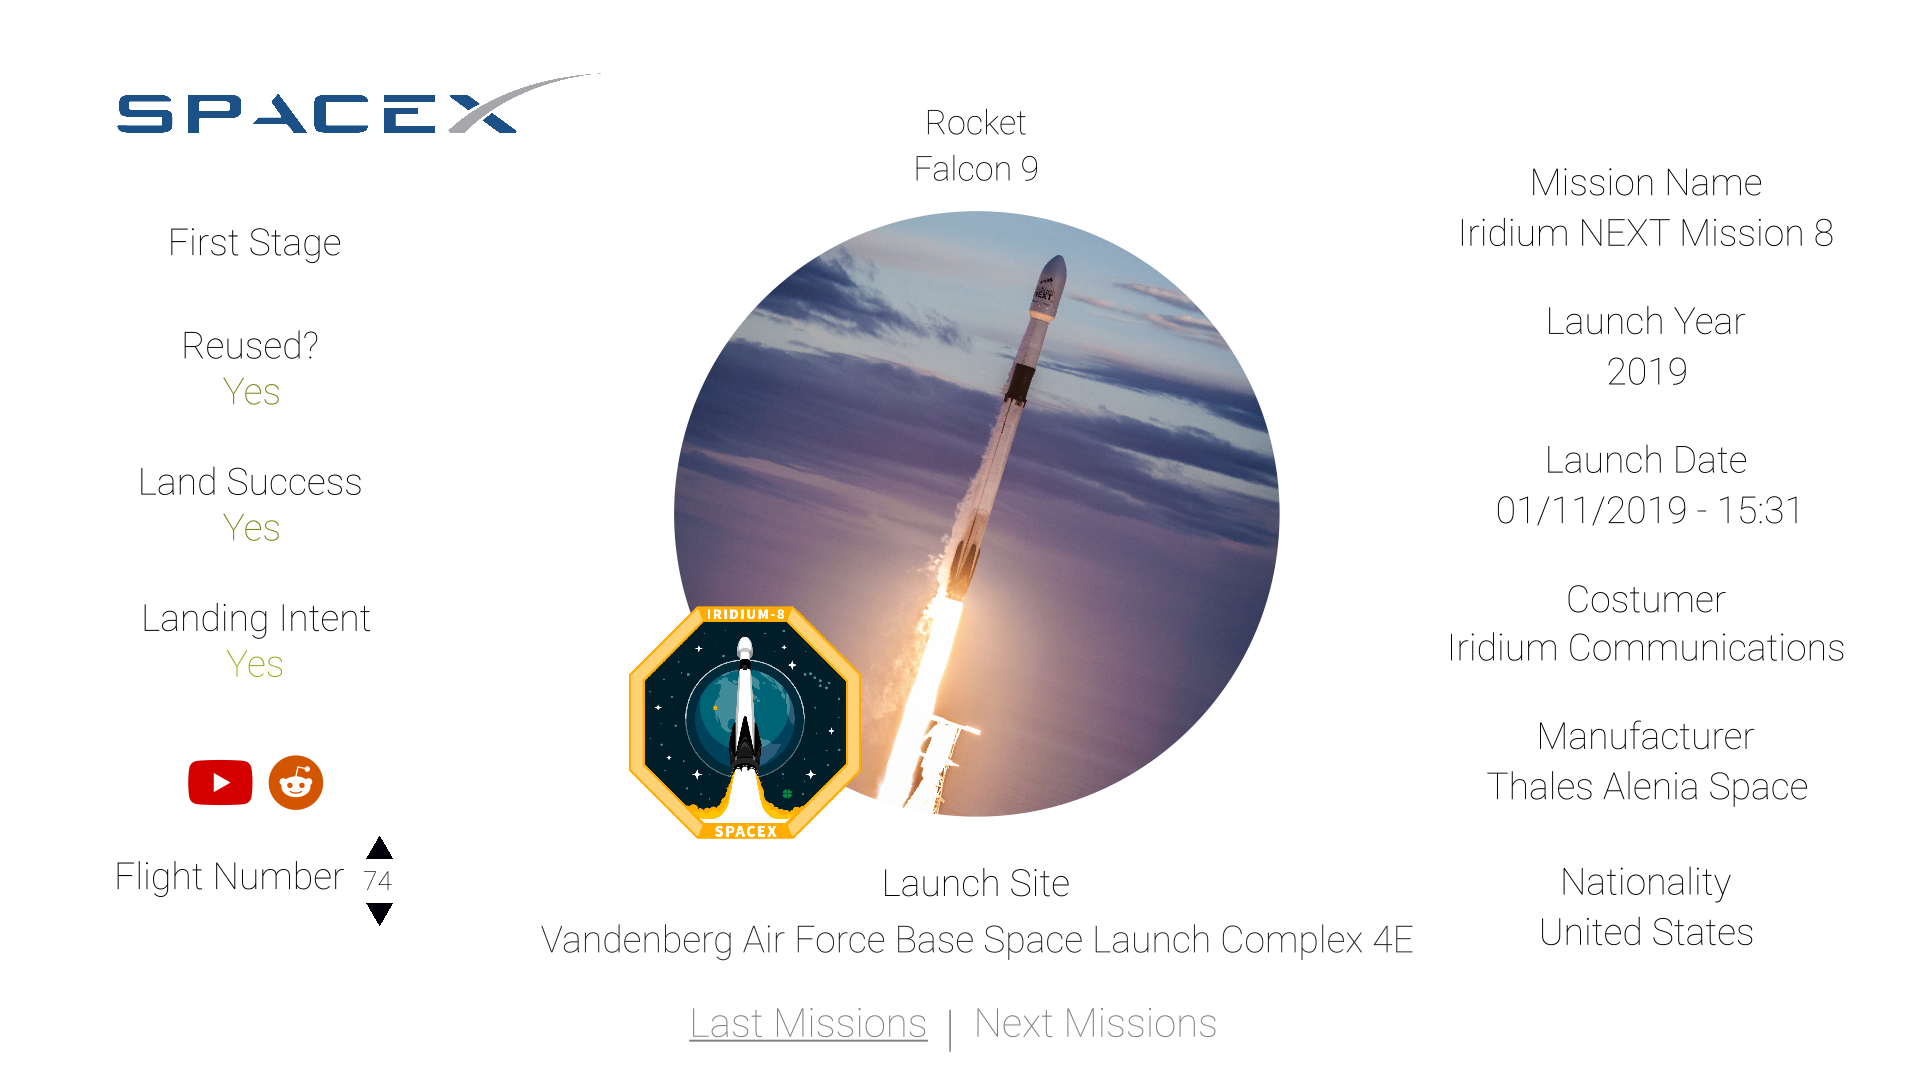
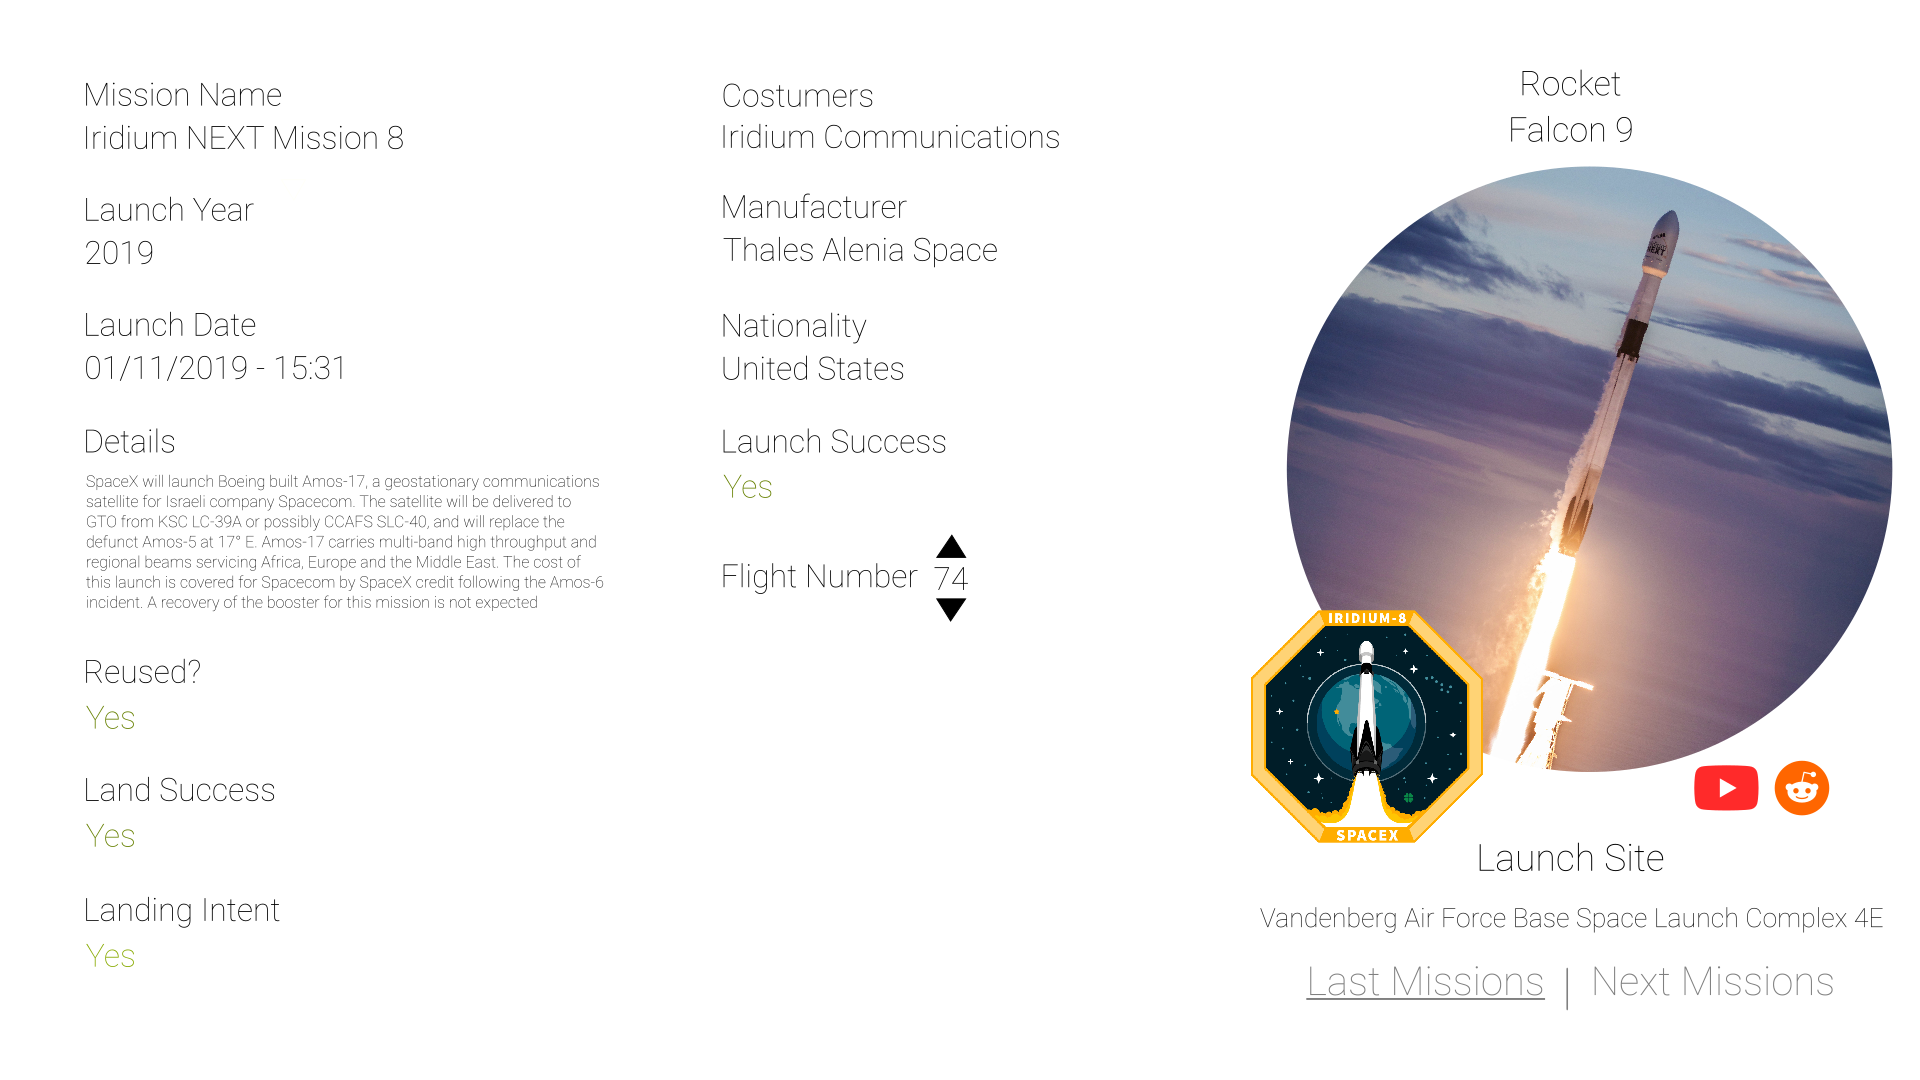
Change component, update mockup and create html structure

diff --git a/react_spacex/src/components/App.js b/react_spacex/src/components/App.js
@@ -1,0 +1,153 @@
+import React from 'react';
+import '../style/App.css';
+
+class App extends React.Component {
+
+
+        constructor(props){
+            super(props)
+            this.state = {
+                info: null,
+            }
+
+        }
+
+        fetchLatest(){
+            const url = 'http://127.0.0.1:8000/launches/next';
+            fetch(url, {method: 'GET', contenttypes: 'application/json'})
+                .then(response => response.json())
+                .then(jsonResponse => {
+                    console.log(jsonResponse)
+                    this.setState({info: jsonResponse})
+                })
+                .catch(err => {
+                    console.log(err)
+                })
+        }
+
+        componentDidMount() {
+            this.fetchLatest()
+        }
+
+
+        render() {
+            return (
+                <div>
+                    { this.state.info &&
+                    <div>
+                        <div>
+                            <h1>Mission Name</h1>
+                            <p>{this.state.info.mission_name}</p>
+                        </div>
+
+                        <div>
+                            <h1>Launch Year</h1>
+                            <p>{this.state.info.launch_year}</p>
+                        </div>
+
+                        <div>
+                            <h1>Launch Date</h1>
+                            <p>{this.state.info.launch_date_utc}</p>
+                        </div>
+
+
+                        <div>
+                            <h1>Details</h1>
+                            <p>{this.state.info.details}</p>
+                        </div>
+
+
+                        <div>
+                            <h1>Reused?</h1>
+                            {this.state.info.launch_success != null ?
+                                <p>{this.state.info.rocket.first_stage.is_reused ? "Yes" : "No" }</p>
+                                :
+                                <p>N/A</p>
+                            }
+                        </div>
+
+
+                        <div>
+                            <h1>Land Success</h1>
+                            {this.state.info.launch_success != null ?
+                                <p>{this.state.info.launch_success ? "Yes" : "No" }</p>
+                                :
+                                <p>N/A</p>
+                            }
+                        </div>
+
+
+                        <div>
+                            <h1>Landing Intent</h1>
+                            {this.state.info.launch_success != null ?
+                                <p>{this.state.info.rocket.first_stage.landing_intent ? "Yes" : "No" }</p>
+                                :
+                                <p>N/A</p>
+                            }
+                        </div>
+
+                        <div>
+                            <h1>Costumers</h1>
+                            <p>{this.state.info.rocket.second_stage.costumers.join(", ")}</p>
+                        </div>
+
+                        <div>
+                            <h1>Manufacturer</h1>
+                            <p>{this.state.info.rocket.second_stage.manufacturer}</p>
+                        </div>
+
+                        <div>
+                            <h1>Nationality</h1>
+                            <p>{this.state.info.rocket.second_stage.nationality}</p>
+                        </div>
+
+                        <div>
+                            <h1>Launch Success</h1>
+                            {this.state.info.launch_success != null ?
+                                <p>{this.state.info.launch_success ? "Yes" : "No"}</p>
+                                :
+                                <p>N/A</p>
+                            }
+                        </div>
+
+                        <div>
+                            <h1>Flight Number</h1>
+                            <button>aa</button>
+                            <input/>
+                            <button>aa</button>
+                        </div>
+
+                        <div>
+                            <div>
+                                <h1>Rocket</h1>
+                                <p>{this.state.info.rocket.first_stage.rocket_name}</p>
+                            </div>
+                            <img src="" />
+                            <img src="" />
+                            <div>
+                                <h1>Launch Site</h1>
+                                <p>{this.state.info.launch_site}</p>
+                            </div>
+                            <div>
+                                <a href="#">
+                                    Last Missions
+                                </a>
+                                <a href="#">
+                                    Next Missions
+                                </a>
+                            </div>
+                        </div>
+
+                    </div>
+                    }
+
+
+
+
+
+                </div>
+            );
+        }
+}
+
+export default App;

diff --git a/react_spacex/src/index.js b/react_spacex/src/index.js
@@ -1,6 +1,6 @@
 import React from 'react';
 import ReactDOM from 'react-dom';
-import App from './App';
+import App from './components/App';
 import * as serviceWorker from './serviceWorker';
 
 ReactDOM.render(<App />, document.getElementById('root'));
